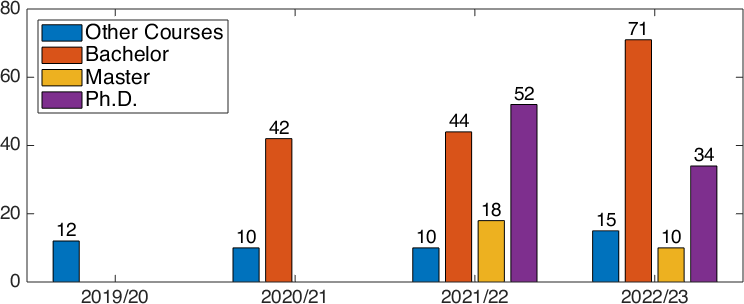
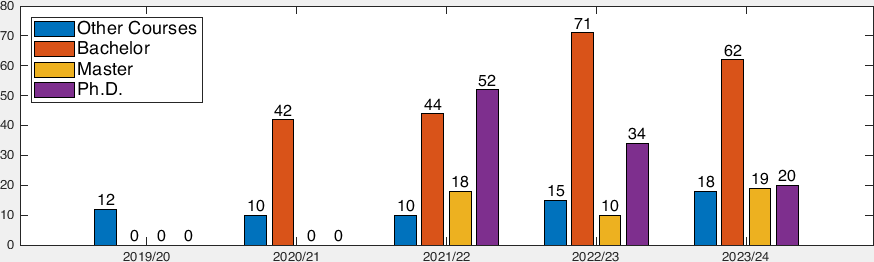
Update documentation

diff --git a/conferences.html b/conferences.html
@@ -109,7 +109,7 @@ with <a href="https://leonardo.robol.it/" target="_blank">Leonardo Robol</a>.
    </colgroup>
     <tr>
         <td>
-<div id="leaflet-map-38f3a16c67226f0f0bfb9dc731ed59ba" class="leaflet-map"></div>
+<div id="leaflet-map-c0003d11df628b901642f9b747144781" class="leaflet-map"></div>
 <script>(() => {
 // Specify configuration variables, setup any elements and styling
     var leafletCdn = "https://unpkg.com/leaflet@1.6.0/dist/";
@@ -118,247 +118,247 @@ with <a href="https://leonardo.robol.it/" target="_blank">Leonardo Robol</a>.
     // Get tag input arguments & inside block object list
     var tagInputArg = {"center" : [42.061443, 50], "zoom" : 1.8} ;
     var blockLeafletItems = [
-{id: "0cae0810fe8f35f3df1118654dbbfc19",
+{id: "78a71119d6f31e9742fe74f4b9f673a9",
               type: "LeafletMarker",
               value: {"popupContent": "Bi-annual congress of the Italian Society of Applied and Industrial Mathematics (SIMAI).",
 "latitude": 44.7626144,
 "longitude": 10.3121771}},
-{id: "9a2a8aa40773279935cace03c3c00cab",
+{id: "8bf2348324a373d76082e2d5a8844a9e",
               type: "LeafletMarker",
               value: {"popupContent": "INdAM 2021 Workshop on Fractional Differential Equations: Modeling, Discretization, and Numerical Solvers",
 "latitude": 41.9062742,
 "longitude": 12.5168796}},
-{id: "2b93cc9ebafd3f1b101da9f6c1315f9f",
+{id: "ab1586c42a961982bf086f5bd33ac398",
               type: "LeafletMarker",
               value: {"popupContent" : "Convegno e Assemblea Gruppo Nazionale Calcolo Scientifico 2020 GNCS",
 "latitude": 43.891150,
 "longitude": 10.776380} },
-{id: "aa151f13db5f9ba8feecafa7b2f1af46",
+{id: "1dc6afd05ce9cfae2aa4545be0504088",
               type: "LeafletMarker",
               value: {"popupContent" : "School on 'Mathematical and Computational Aspects of Machine Learning'",
 "latitude": 43.719480,
 "longitude": 10.399720} },
-{id: "2dc785722d2fecc6e4379fe682cb574d",
+{id: "77613e598a8e2bdeb2ea744fbc2f453a",
               type: "LeafletMarker",
               value: {"popupContent" : "European Numerical Mathematics and Advanced Applications Conference 2019",
 "latitude": 52.616400,
 "longitude": 4.625120} },
-{id: "e15d5d2e2391cb1fed6165cbcf88956b",
+{id: "11cc7555c90a7f3cece8fb6755eeefd7",
               type: "LeafletMarker",
               value: {"popupContent" : "EoCoE-II Face2Face Meeting",
 "latitude": 50.806630,
 "longitude": 4.385590} },
-{id: "c0cfaf5535307ef956d8e6b46e413e34",
+{id: "08205f5a82bdea22556b059e67a26f7d",
               type: "LeafletMarker",
               value: {"popupContent" : "International Congress on Industrial and Applied Mathematics (ICIAM2019)",
 "latitude": 39.463980,
 "longitude": -0.358080} },
-{id: "0687f533feedf028485a7103eccf2695",
+{id: "2b51c3544c1652e0799303e583e941f6",
               type: "LeafletMarker",
               value: {"popupContent" : "Due giorni di Algebra Lineare Numerica",
 "latitude": 41.901840,
 "longitude": 12.511840} },
-{id: "7240866462016312bd20e79eac9078a4",
+{id: "ba5fadc94e33b8142eda6e8c56045ee8",
               type: "LeafletMarker",
               value: {"popupContent" : "2018 GAMM activity group on applied and numerical linear algebra workshop",
 "latitude": 55.919390,
 "longitude": 13.514290} },
-{id: "ed164880a7d49ec045a2ddd386f08cda",
+{id: "7f246fd38b30179bccd5a18e0105ff51",
               type: "LeafletMarker",
               value: {"popupContent" : "Congresso Nazionale SIMAI 2018",
 "latitude": 41.893280,
 "longitude": 12.492010} },
-{id: "e2e15c39bf4e50e2293c26e2cea2c2d0",
+{id: "c35e47865cfeae7f665fe4755c7df43c",
               type: "LeafletMarker",
               value: {"popupContent" : "10th Workshop SDS2018, Structural Dynamical Systems Computational Aspects",
 "latitude": 40.910070,
 "longitude": 17.344550} },
-{id: "825bb0f79853a53534180ac06929c4b3",
+{id: "eedd3878e97df4495d1d1d12de4916a1",
               type: "LeafletMarker",
               value: {"popupContent" : "Calcolo Scientifico e Modelli Matematici alla ricerca delle cose nascoste attraverso le cose manifeste 2.0",
 "latitude": 45.802290,
 "longitude": 9.080430} },
-{id: "8aa88e168af3d0744ffc64c65148564f",
+{id: "e32525df622262eb8327f194be4dab8b",
               type: "LeafletMarker",
               value: {"popupContent" : "2018 SIAM conference on Applied Linear Algebra",
 "latitude": 22.335620,
 "longitude": 114.182970} },
-{id: "9d1fc495e63ed7e6ebdcb1bdc4b00930",
+{id: "afeffba1f2d694f2d76967358b598bca",
               type: "LeafletMarker",
               value: {"popupContent" : "2018 Due giorni di Algebra Lineare Numerica e Applicazioni",
 "latitude": 45.411100,
 "longitude": 11.887570} },
-{id: "db15e70aede7854c235837b39b3f6850",
+{id: "7d9c4c0f9a0354ffc445952335245b8d",
               type: "LeafletMarker",
               value: {"popupContent" : "2018 DREAMS Design of Reliable, Exact, and Application-oriented techniques for geometric Modeling and numerical Simulation",
 "latitude": 41.901840,
 "longitude": 12.511840} },
-{id: "d05cfea2f84da6afbd6676a767db5449",
+{id: "78bc82abdabe0b41a629463fe0522772",
               type: "LeafletMarker",
               value: {"popupContent" : "Quantitative Systems Theory and Applications (QuaSy 2017)",
 "latitude": 45.802290,
 "longitude": 9.080430} },
-{id: "a3da23bebac31924021df3a30d0da100",
+{id: "cecad26c6fc8fa37cdb5a0e001046d60",
               type: "LeafletMarker",
               value: {"popupContent" : "2017 INdAM Meeting Structured Matrices in Numerical Linear Algebra Analysis, Algorithms and Applications",
 "latitude": 43.270260,
 "longitude": 11.995350} },
-{id: "cc5200d58d7e5904fd7efd137f8e3d17",
+{id: "9b7715e15ab5d6836262c6e782802183",
               type: "LeafletMarker",
               value: {"popupContent" : "2017 Splines and PDEs Recent Advances from Approximation Theory to Structured Numerical Linear Algebra.",
 "latitude": 39.539050,
 "longitude": 15.906030} },
-{id: "85d292c599f4734991cf92b66152ea69",
+{id: "113739e4f852f7a9d20d080b182308c8",
               type: "LeafletMarker",
               value: {"popupContent" : "2017 Numerical methods for optimal control problems algorithms, analysis and applications",
 "latitude": 41.901840,
 "longitude": 12.511840} },
-{id: "b7843ca8e892cd073a30be80b60e7723",
+{id: "29bcbd0b2c625608bfff59472c7d5f31",
               type: "LeafletMarker",
               value: {"popupContent" : "2017 Frontiers in Partial Differential Equations Analysis and Solvers",
 "latitude": 45.181480,
 "longitude": 9.156920} },
-{id: "62e0d7c0867b085d280bb1d643450988",
+{id: "90a2fadeeeca709c0c1cc5a394ec8574",
               type: "LeafletMarker",
               value: {"popupContent" : "2016 Due Giorni di Algebra Lineare Numerica",
 "latitude": 45.802290,
 "longitude": 9.080430} },
-{id: "03707af3990aba897937c703e5a15679",
+{id: "039b7bc87239a73fdc0a87df23b12fe1",
               type: "LeafletMarker",
               value: {"popupContent" : "9th Workshop SDS2016 - Structural Dynamical Systems Computational Aspects",
 "latitude": 40.910070,
 "longitude": 17.344550} },
-{id: "6c801cc3107e63e951f3b11e3b4b9812",
+{id: "dd151d1e841148dffca8f858d1fbf68e",
               type: "LeafletMarker",
               value: {"popupContent" : "2015 Innovation and Growth, a process entangling public and private sectors",
 "latitude": 45.826330,
 "longitude": 9.067940} },
-{id: "97ee95ae15d9c6bfab752b607156ebc8",
+{id: "a2dbcf39be779c2765862e2a7d35ef10",
               type: "LeafletMarker",
               value: {"popupContent" : "2015 13th EUROPT Workshop on Advances in Continuous Optimization",
 "latitude": 55.947050,
 "longitude": -3.186040} },
-{id: "339612412f4808858ccdbe62e2807d6b",
+{id: "7bb133e7bbd3ed57272731bb45503f69",
               type: "LeafletMarker",
               value: {"popupContent" : "2015 Exploiting Hidden Structure in Matrix Computations. Algorithms and Applications.",
 "latitude": 39.539050,
 "longitude": 15.906030} },
-{id: "e24dac82bb6296716caf9eb879f6f420",
+{id: "aa1209165c48fbee28d334a0a41da40f",
               type: "LeafletMarker",
               value: {"popupContent" : "2015 17th International Conference on Mathematical Methods, Comptutational Techniques and Intelligent Systems",
 "latitude": 28.052980,
 "longitude": -16.723270} },
-{id: "34aed7473b2bdd143bdf2e8181b0c180",
+{id: "7ca4c5e34011df3492242bc3d51d9920",
               type: "LeafletMarker",
               value: {"popupContent" : "Rome-Moscow School of Matrix Analysis and Applications",
 "latitude": 55.726470,
 "longitude": 37.587080} },
-{id: "e4dcea48ba1b16bad14b1e3febf0138b",
+{id: "b16cb0c25e1d0bdd3790c5998a4690a6",
               type: "LeafletMarker",
               value: {"popupContent" : "Lund University",
 "latitude": 55.711400,
 "longitude": 13.205850} },
-{id: "a2ac5c03e5dabf1d159501968341bf57",
+{id: "ff5d2c1d5077931957c4190a4db75acb",
               type: "LeafletMarker",
               value: {"popupContent" : "Numerical Methods and Scientific Computing (NMSC21)",
 "latitude": 43.230202,
 "longitude": 5.443900} },
-{id: "cfe0db31d7fb243ded4d15346750a941",
+{id: "5272bcd92ec2ffec092cc43d56e6f1c3",
               type: "LeafletMarker",
               value: {"popupContent" : "2 Giorni di Algebra Lineare e Applicazioni",
 "latitude": 40.830020,
 "longitude": 14.246180} },
-{id: "8d7e7232f6d0d0722d8b9bfba2c19a3a",
+{id: "0d5ad3027e3a8f2312f1d7709e93bf71",
               type: "LeafletMarker",
               value: {"popupContent" : "ALAMA 2022-ALN2gg Linear Algebra, Matrix Analysis and Applications.",
 "latitude": 40.482880,
 "longitude": -3.363390} },
-{id: "7c93d26334f730247dba9c9d09a3741f",
+{id: "f5947b696c8557c76b54ca508e6c0af4",
               type: "LeafletMarker",
               value: {"popupContent" : "A journey in numerical linear algebra: a workshop in honor of Michele Benzi’s 60th birthday. June 10-11, 2022.",
 "latitude": 43.719780,
 "longitude": 10.407460} },
-{id: "880e1ad48cc7dd6a18f334ffa682bf8a",
+{id: "6fa856f246b98ca37d0264690c17b61f",
               type: "LeafletMarker",
               value: {"popupContent" : "Householder Symposium XXI. June, 12-17, 2022.",
 "latitude": 40.826890,
 "longitude": 17.321160} },
-{id: "128678b956860879eeb26e1b5649ea9f",
+{id: "5ed98c3b270c5a594eb7540c313d34b2",
               type: "LeafletMarker",
               value: {"popupContent" : "Final meeting of the EoCoE-II project. June 20-22, 2022.",
 "latitude": 40.842650,
 "longitude": 14.250220} },
-{id: "353ce47ffc302692a0bf7fc026c1816a",
+{id: "836ca0661550cba070b9cd802ecbf7f5",
               type: "LeafletMarker",
               value: {"popupContent" : "LN HPCKTT GENERAL ASSEMBLY AND 3rd ITALIAN WORKSHOP ON HPC. September 14, 2022.",
 "latitude": 45.091070,
 "longitude": 7.661520} },
-{id: "592e0d775612b4004cea3ce614769432",
+{id: "069fb74a46954ab6b28c76afe481df1e",
               type: "LeafletMarker",
               value: {"popupContent" : "GIMC SIMAI YOUNG 2022",
 "latitude": 45.186750,
 "longitude": 9.155860} },
-{id: "fe15a6656d5052be71992fb841dccf38",
+{id: "c5ec9df919c1311f017f1da90b1bd681",
               type: "LeafletMarker",
               value: {"popupContent" : "Due Giorni di Algebra Lineare Numerica e Applicazioni 2023",
 "latitude": 42.344910,
 "longitude": 13.398250} },
-{id: "514c131beef1bc69509989d7137b913d",
+{id: "ca6ba09725d91efff66559635c558fbf",
               type: "LeafletMarker",
               value: {"popupContent" : "Math2Product (M2P): Emerging Technologies in Computational Science for Industry, Sustainability and Innovation 2023",
 "latitude": 37.850970,
 "longitude": 15.291030} },
-{id: "eec91564c581a2014c8327dec06f8ae9",
+{id: "67741e6864baa295e2023e45272458fc",
               type: "LeafletMarker",
               value: {"popupContent" : "14th Large-Scale Scientific Computations 2023",
 "latitude": 42.418040,
 "longitude": 27.696760} },
-{id: "393ea9af4df27d10872c8813d2653dab",
+{id: "b8ce37bb636b636501523ba48b7dd2f7",
               type: "LeafletMarker",
               value: {"popupContent" : "25th Conference of The International Linear Algebra Society, 2023.",
 "latitude": 40.448200,
 "longitude": -3.724760} },
-{id: "39aa2d0cdff600349e6ee8b3137bd0f5",
+{id: "005081576f5e9088211d8566288b1dd2",
               type: "LeafletMarker",
               value: {"popupContent" : "INTRUSION 2023: NumerIcal aNalysis, porous media and waTer ResoUrceS: a fruItful cOntamiNation",
 "latitude": 41.107430,
 "longitude": 16.878640} },
-{id: "64588095aba6872d62b407c1893ec09c",
+{id: "45a7da1dd27cc45d98bb33b68c731b46",
               type: "LeafletMarker",
               value: {"popupContent" : "ICIAM23: 10th International Congress on Industrial and Applied Mathematics",
 "latitude": 35.693550,
 "longitude": 139.703522} },
-{id: "fe5f7a744b61ba4ae3d3eea44e3e8461",
+{id: "f03c654112fcd6127970f5d3387f83c2",
               type: "LeafletMarker",
               value: {"popupContent" : "29th EAA Annual Meeting in Belfast, 2023.",
 "latitude": 54.585499,
 "longitude": -5.936220} },
-{id: "348eb32702e17c5131eab6f3bfeaa93c",
+{id: "630edaada3aa628ff08aeabf36306a84",
               type: "LeafletMarker",
               value: {"popupContent" : "XXII Congresso dell'Unione Matematica Italiana (UMI), 2023.",
 "latitude": 43.719080,
 "longitude": 10.400280} },
-{id: "91b273b6c9a3fdfdd0d45b98064bea0b",
+{id: "0c8cb4037ae8ff484a701c9b284822c0",
               type: "LeafletMarker",
               value: {"popupContent" : "Annual meeting of the CINI HPC: Key Technologies and Tools laboratory, 2023.",
 "latitude": 43.719940,
 "longitude": 10.407540} },
-{id: "231a8aff6db78af1aff463119fb5f6ad",
+{id: "c7c723deff3f5923d2dbcba27337631d",
               type: "LeafletMarker",
               value: {"popupContent" : "ICSC – SPOKE 1 FUTURE HPC & BIG DATA, 2024.",
 "latitude": 45.089890,
 "longitude": 7.659380} },
-{id: "885278d7f8802f02d0b4a02af6025a2d",
+{id: "17d291cef2f613bbc166c214effc366d",
               type: "LeafletMarker",
               value: {"popupContent" : "EoCoE-III Kick-off Meeting, March 7-8 2024.",
 "latitude": 41.900470,
 "longitude": 12.497470} },
-{id: "0ed98f9bebff7c4c1554175b14e65d9e",
+{id: "af5b05e7cc34560cd438ea71fb0fa7a7",
               type: "LeafletMarker",
               value: {"popupContent" : "Exploiting Algebraic and Geometric Structure in Time-Integration Methods, April 3-5, 2024.",
 "latitude": 43.719650,
 "longitude": 10.400310} },
-{id: "17e74bcd560cb16a4ccfcc41846e9e38",
+{id: "1e02ca2fed7314a1514e96cdd48e32ea",
               type: "LeafletMarker",
               value: {"popupContent" : "SIAM Conference on Applied Linear Algebra. May 13-17, 2024.",
 "latitude": 48.847497,
@@ -366,7 +366,7 @@ with <a href="https://leonardo.robol.it/" target="_blank">Leonardo Robol</a>.
 ];
 
     // Override the map div id if specified, apply default CSS
-    var defaultMapElId = "leaflet-map-38f3a16c67226f0f0bfb9dc731ed59ba";
+    var defaultMapElId = "leaflet-map-c0003d11df628b901642f9b747144781";
    var defaultMapElStyle = "height:300px; margin-top:15px; margin-bottom:15px";
     var mapEl = document.getElementById(defaultMapElId);
     if('divId' in tagInputArg){
@@ -499,7 +499,7 @@ with <a href="https://leonardo.robol.it/" target="_blank">Leonardo Robol</a>.
 
 //The actual section that is called that creates a map
     function createMap(){
-        console.log("Creating map 38f3a16c67226f0f0bfb9dc731ed59ba with these args:");
+        console.log("Creating map c0003d11df628b901642f9b747144781 with these args:");
         console.log(tagInputArg);
 
         //Initialize Map with the correct input arguments

diff --git a/assets/img/ore.m b/assets/img/ore.m
@@ -1,0 +1,31 @@
+%% Plot ORE figure
+
+clear; clc; close all;
+
+ORE = [12,0,0,0;10,42,0,0;10,44,18,52;15,71,10,34;18,62,19,20];
+X = ["2019/20" "2020/21" "2021/22" "2022/23" "2023/24"];
+
+%h = figure(1);
+figure('Position',[899 743 1101 293]);
+bar(X,ORE)
+legend({'Other Courses','Bachelor','Master','Ph.D.'}, ...
+    'Location','northwest','FontSize',14)
+
+% Put numbers
+nModel = size(ORE,1);
+nCat = size(ORE,2);
+xPosAmpl = 0.3682626-0.3298725*exp(-0.407004*(nCat-1)); % position amplitude
+xPosInc = 2*xPosAmpl/(nCat-1);
+modelNames = [];
+for idxModel=1:nCat
+    bar_xPos = 1:nModel;
+    if nModel~=1
+        bar_xPos = bar_xPos-xPosAmpl+(idxModel-1)*xPosInc;
+    end
+    text(bar_xPos,ORE(:,idxModel)',num2str(ORE(:,idxModel),...
+        '%d'),'vert','bottom','horiz','center','FontSize',12); 
+end
+
+% Save Figure to File
+set(gca,'Color','white')
+export_fig('ore.png')
